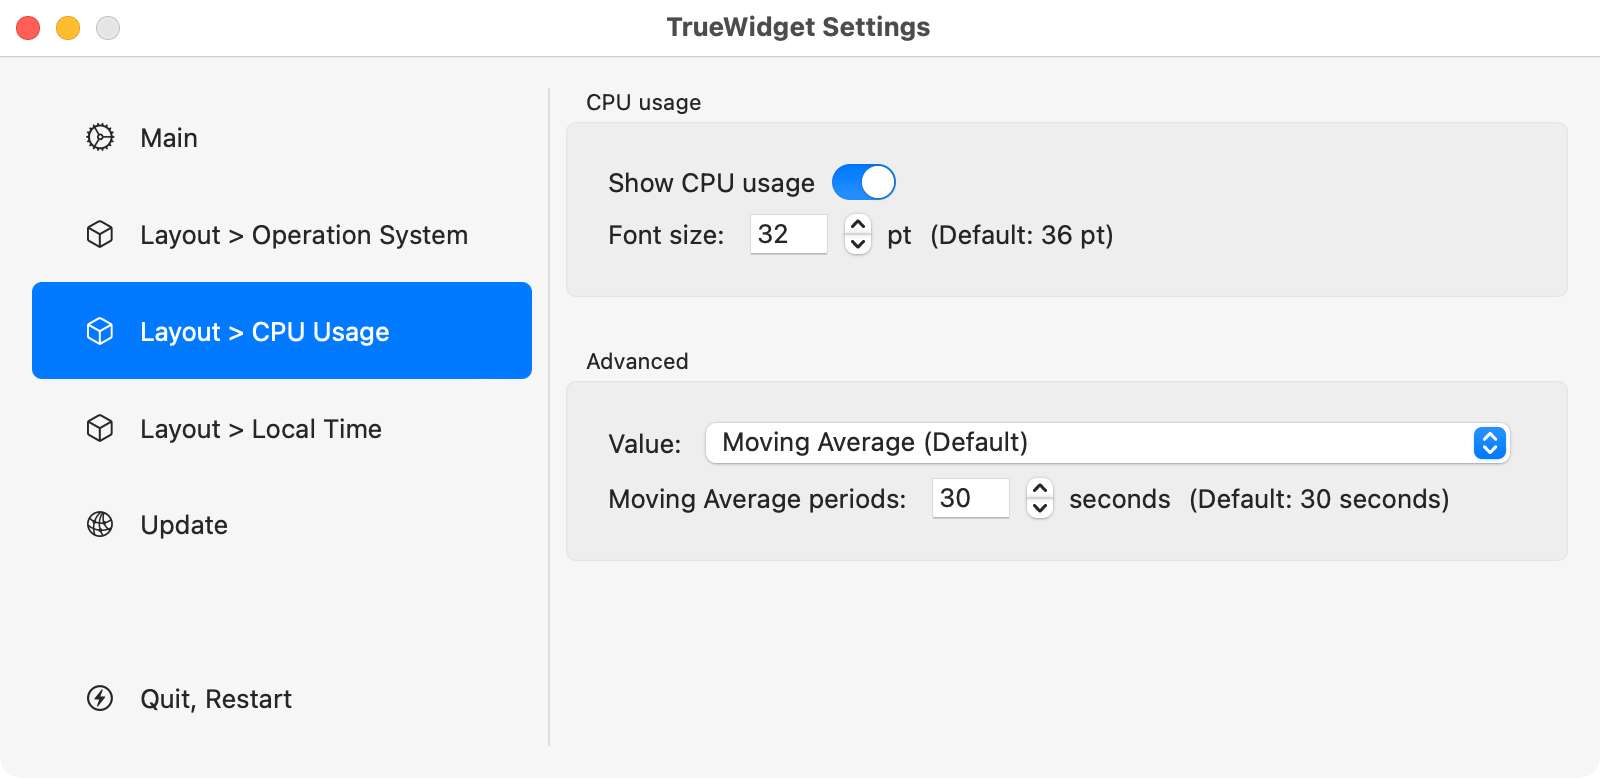
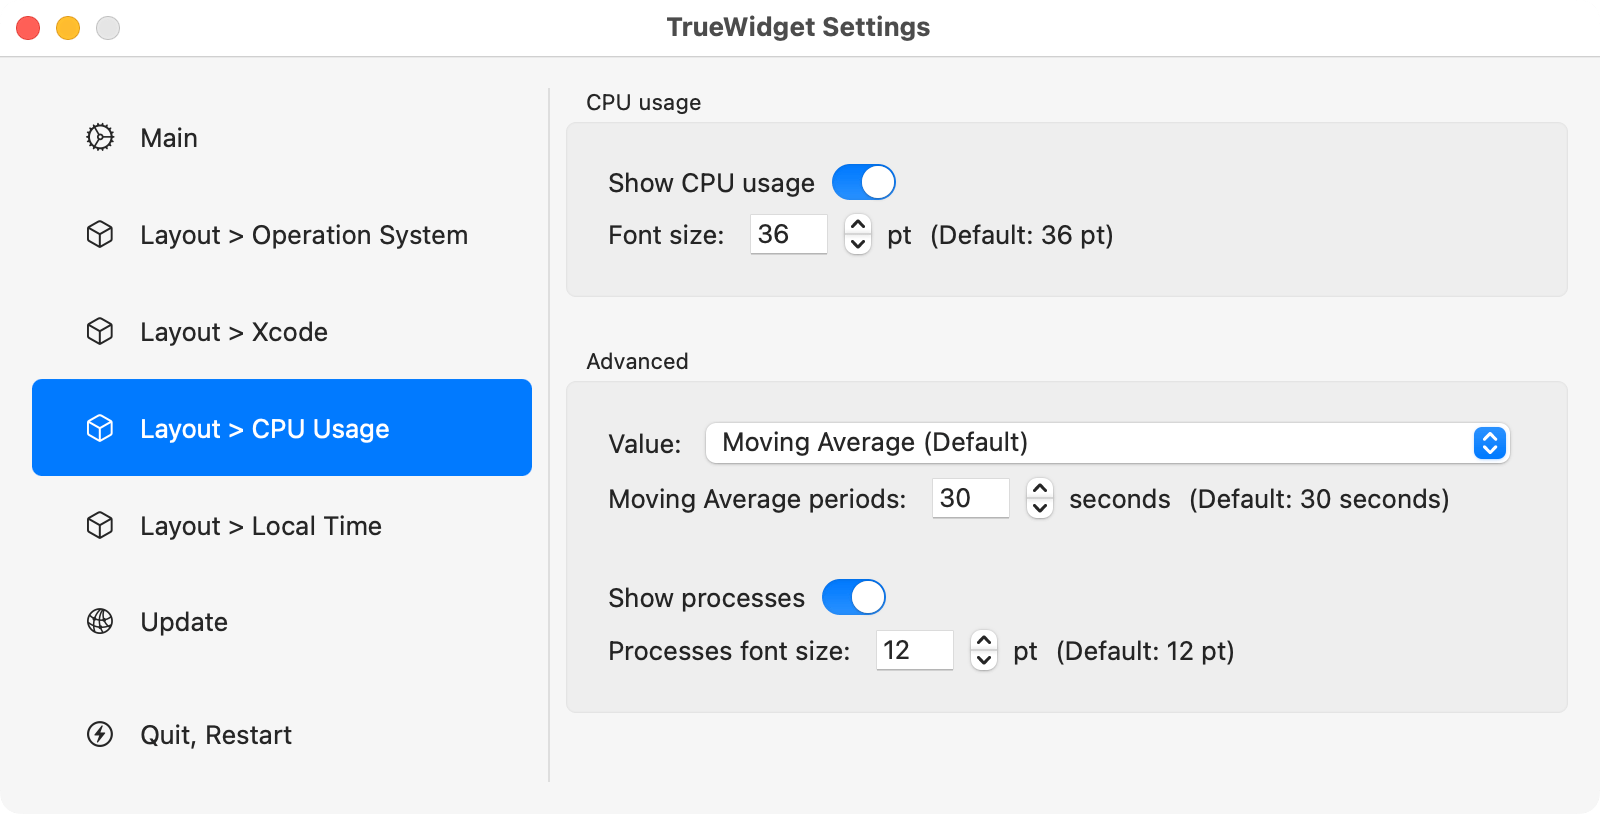
Update layout-configuration

diff --git a/sites/truewidget/content/en/docs/configuration/layout-configuration/index.md b/sites/truewidget/content/en/docs/configuration/layout-configuration/index.md
@@ -29,6 +29,10 @@ Specifies which screen to display when multiple displays are used.
 
 {{< local-image src="images/operation-system@2x.png" >}}
 
+## Xcode
+
+{{< local-image src="images/xcode@2x.png" >}}
+
 ## CPU Usage
 
 {{< local-image src="images/cpu-usage@2x.png" >}}
